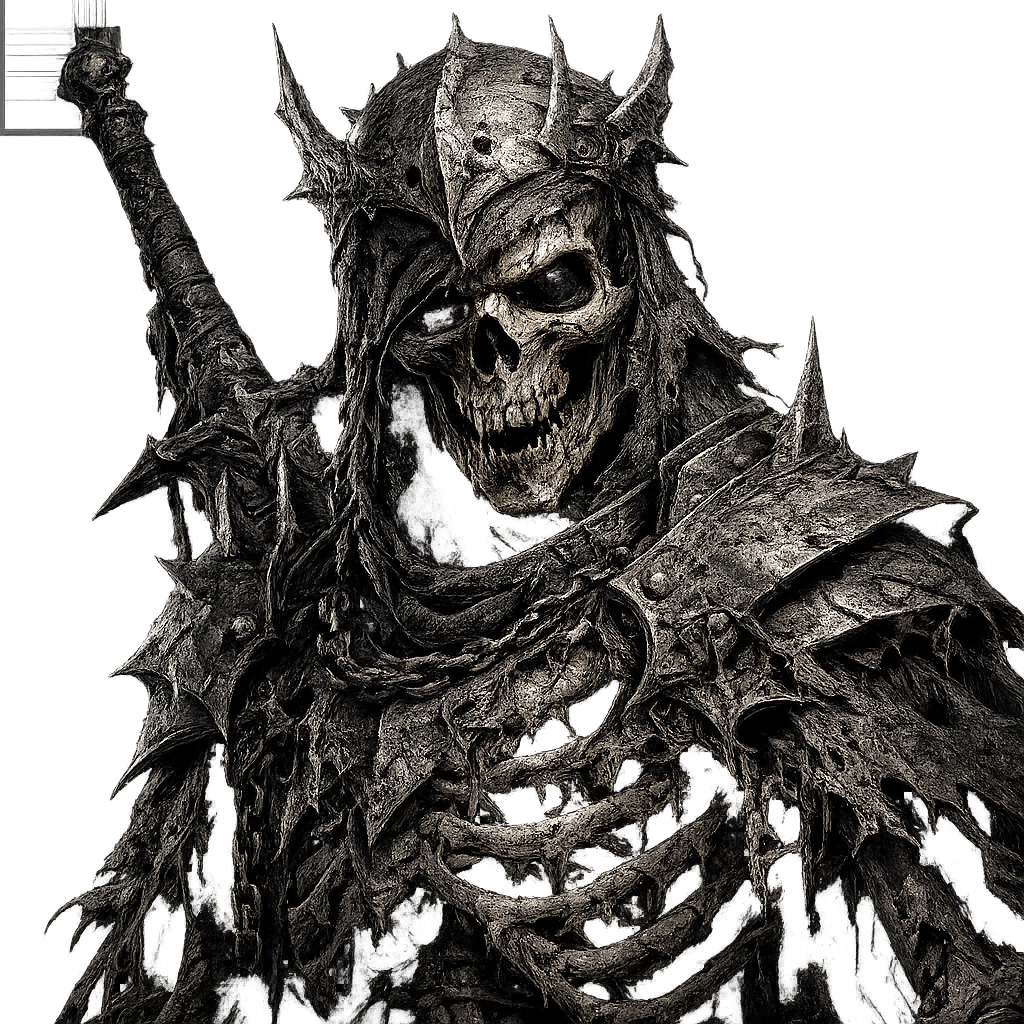
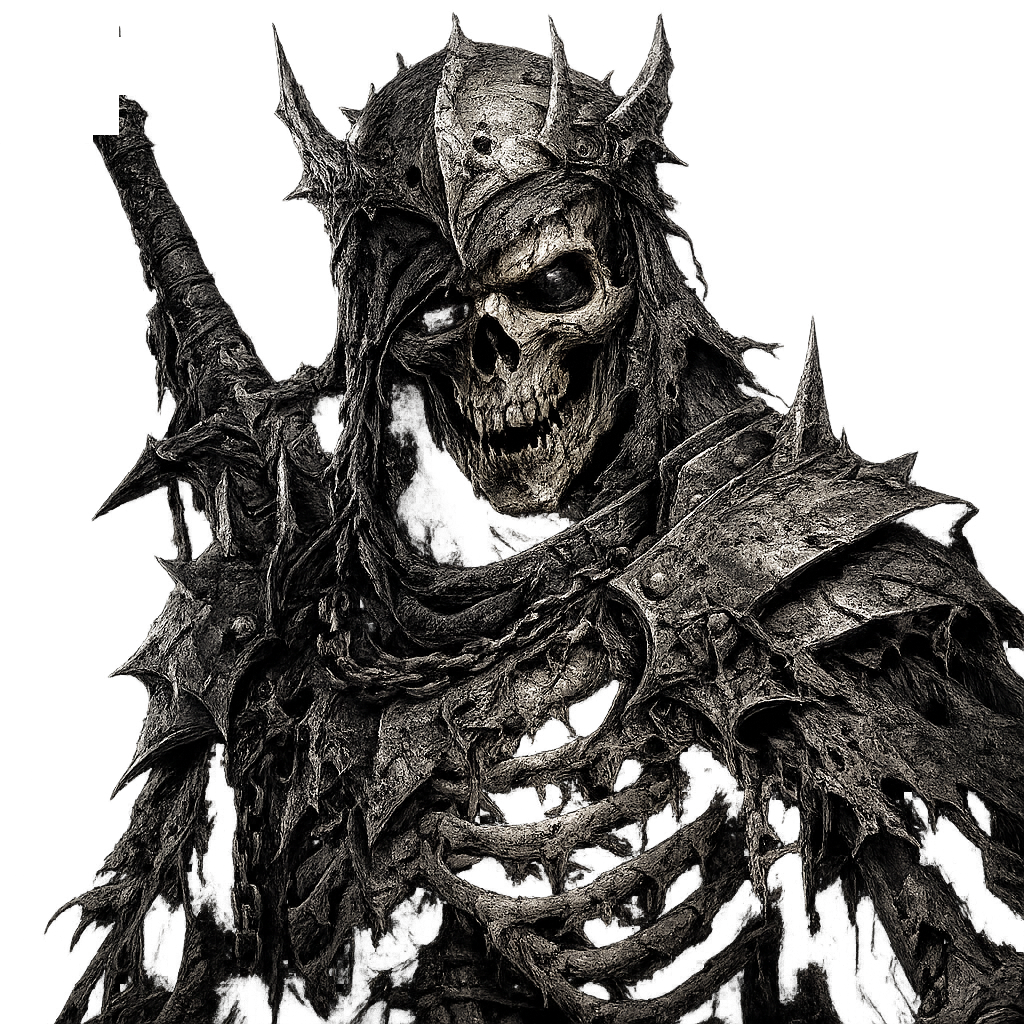
about to overhaul card game

Changed region(s): [[0.0, 0.0, 0.125, 0.1562]]

diff --git a/src/pages/DungeonPage.js b/src/pages/DungeonPage.js
@@ -5423,6 +5423,7 @@ class DungeonPage extends React.Component {
 
             // Deduct food
             meta.food = currentFood - FOOD_COST;
+            member.lastTrained = new Date().toISOString();
             try { storeMeta(meta); } catch(e) {}
             try { if (typeof this.props.saveUserData === 'function') this.props.saveUserData(); } catch(e) {}
 
@@ -6257,7 +6258,13 @@ class DungeonPage extends React.Component {
                                     const progress = member.trainingProgress || { str: 0, dex: 0, fort: 0, int: 0 };
                                     const memberId = member.id || member.name;
                                     const result = (this.state.trainingResults || {})[memberId];
-                                    const alreadyTrained = !!result;
+                                    
+                                    const COOLDOWN_MS = 24 * 60 * 60 * 1000;
+                                    const lastTrainedTime = member.lastTrained ? new Date(member.lastTrained).getTime() : 0;
+                                    const remainingMs = Math.max(0, COOLDOWN_MS - (Date.now() - lastTrainedTime));
+                                    const hasCooldown = remainingMs > 0;
+                                    
+                                    const alreadyTrained = !!result || hasCooldown;
                                     const canAfford = currentFood >= FOOD_COST && !alreadyTrained;
 
                                     return (
@@ -6303,14 +6310,22 @@ class DungeonPage extends React.Component {
                                                 })}
                                             </div>
 
-                                            {/* Result toast */}
-                                            {result && (
+                                            {/* Result / Cooldown status */}
+                                            {result ? (
                                                 <div className={`training-result-toast${result.statGained ? ' gained' : result.delta === 0 ? ' failed' : ''}`}>
                                                     {result.message}
                                                 </div>
-                                            )}
+                                            ) : hasCooldown ? (
+                                                <div className="training-result-toast" style={{ background: 'rgba(255, 255, 255, 0.05)', color: '#aaa', border: '1px dashed #444', animation: 'none' }}>
+                                                    <span role="img" aria-label="hourglass">⏳</span> Cooldown: {(() => {
+                                                        const hours = Math.floor(remainingMs / 3600000);
+                                                        const minutes = Math.floor((remainingMs % 3600000) / 60000);
+                                                        return `${hours}h ${minutes}m remaining`;
+                                                    })()}
+                                                </div>
+                                            ) : null}
 
-                                            {/* Drill selector (hidden if already trained this session) */}
+                                            {/* Drill selector (hidden if already trained or on cooldown) */}
                                             {!alreadyTrained && (
                                                 <TrainingDrillPicker
                                                     member={member}

diff --git a/src/utils/typewriter.jsx b/src/utils/typewriter.jsx
@@ -1,22 +1,39 @@
-import React, { useState, useEffect } from 'react';
+import React, { useEffect, useRef } from 'react';
 
 const Typewriter = ({ text, delay }) => {
-  const [currentText, setCurrentText] = useState('');
-  const [currentIndex, setCurrentIndex] = useState(0);
+  const spanRef = useRef(null);
 
-  // Typing logic goes here
   useEffect(() => {
-    if (currentIndex < text.length) {
-      const timeout = setTimeout(() => {
-        setCurrentText(prevText => prevText + text[currentIndex]);
-        setCurrentIndex(prevIndex => prevIndex + 1);
-      }, delay);
-  
-      return () => clearTimeout(timeout);
-    }
-  }, [currentIndex, delay, text]);
+    if (!spanRef.current) return;
+    spanRef.current.textContent = '';
+    
+    let currentIndex = 0;
+    let lastTime = performance.now();
+    let frameId;
 
-  return <span>{currentText}</span>;
+    const tick = (now) => {
+      const elapsed = now - lastTime;
+      const charsToType = Math.floor(elapsed / delay);
+
+      if (charsToType > 0) {
+        currentIndex = Math.min(text.length, currentIndex + charsToType);
+        spanRef.current.textContent = text.slice(0, currentIndex);
+        lastTime = now - (elapsed % delay);
+      }
+
+      if (currentIndex < text.length) {
+        frameId = requestAnimationFrame(tick);
+      }
+    };
+
+    frameId = requestAnimationFrame(tick);
+
+    return () => {
+      cancelAnimationFrame(frameId);
+    };
+  }, [text, delay]);
+
+  return <span ref={spanRef} />;
 };
 
 export default Typewriter;

diff --git a/src/utils/animation-manager-redux.js b/src/utils/animation-manager-redux.js
@@ -655,10 +655,22 @@ export class AnimationManagerRedux {
   }
 
   _monkPunch(src, tgt, name) {
+    let targetCoords = tgt;
+    if (this._isTargetLarge && Array.isArray(this._currentTargetOccupiedCoords) && this._currentTargetOccupiedCoords.length > 0) {
+      let minDist = Infinity;
+      this._currentTargetOccupiedCoords.forEach(tc => {
+        const dist = Math.abs(src.x - tc.x) + Math.abs(src.y - tc.y);
+        if (dist < minDist) {
+          minDist = dist;
+          targetCoords = tc;
+        }
+      });
+    }
+
     const srcPx = this._px(src);
-    const tgtPx = this._px(tgt);
-    const dx = src.x - tgt.x;
-    const dy = src.y - tgt.y;
+    const tgtPx = this._px(targetCoords);
+    const dx = src.x - targetCoords.x;
+    const dy = src.y - targetCoords.y;
     const dist = Math.sqrt(dx * dx + dy * dy);
     const colStep = dist > 0 ? Math.round(dx / dist) : 0;
     const rowStep = dist > 0 ? Math.round(dy / dist) : 0;
